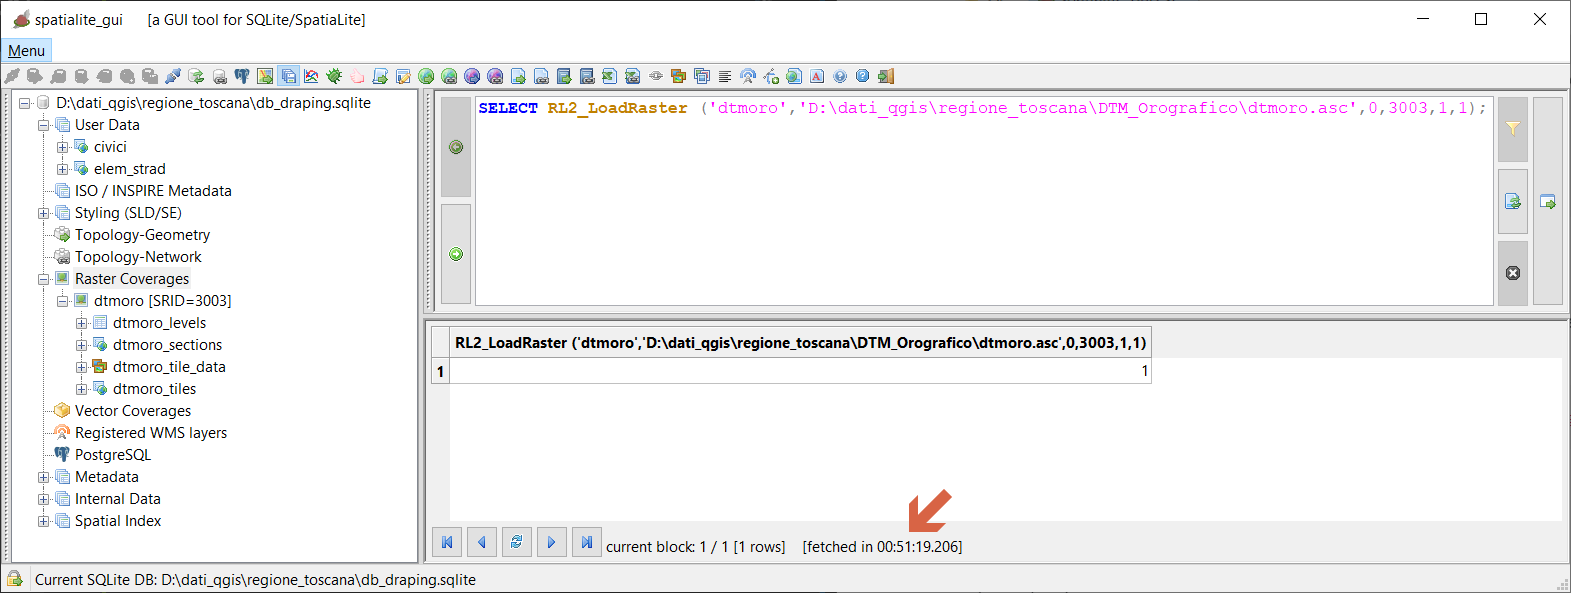
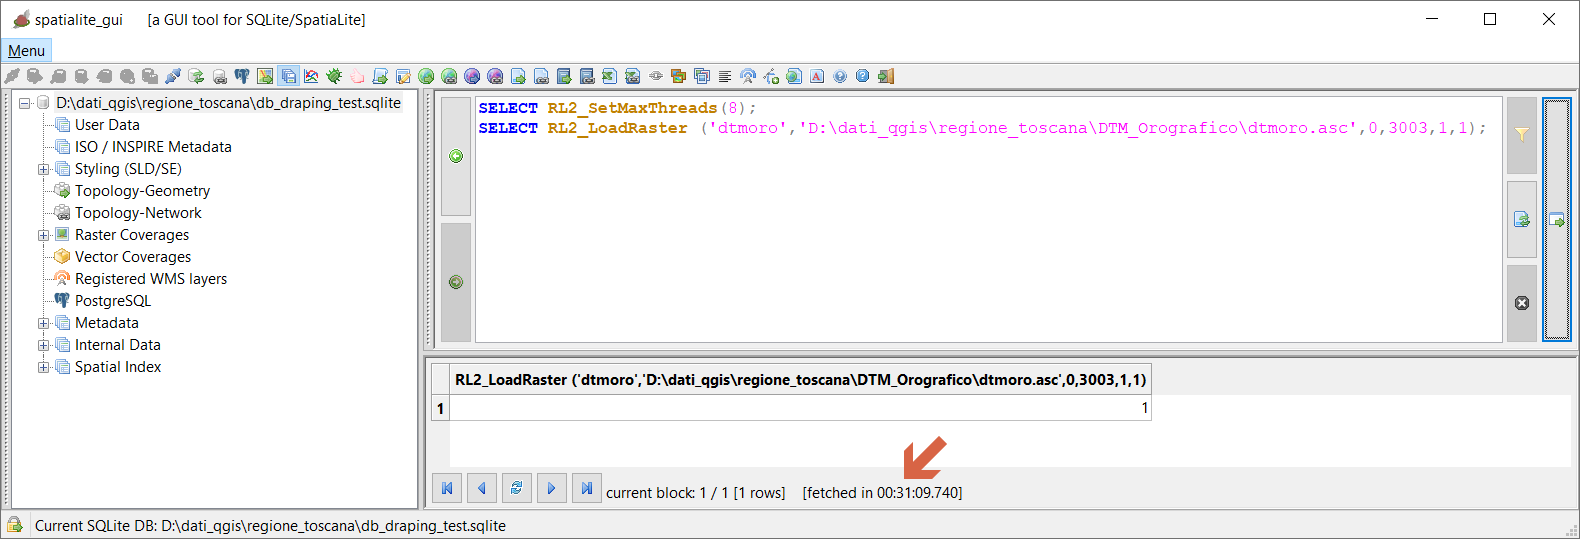
update cores

Changed region(s): [[0.0, 0.0, 1.0, 1.0]]

diff --git a/README.md b/README.md
@@ -172,23 +172,36 @@ Infine, caricaremo DTM **dtmoro.asc** nella copertura raster creata nel passaggi
 Come mostrato nella figura sotto, useremo la procedura guidata della GUI appropriata per svolgere questa attività, ma se lo desideri, alla fine potresti adottare un approccio SQL puro eseguendo la seguente dichiarazione:
 
 ```sql
+SELECT RL2_SetMaxThreads(8); -- per usare fino ad un massimo di 8 threads in parallelo durante la compressione
 SELECT RL2_LoadRaster ('dtmoro','D:\dati_qgis\regione_toscana\DTM_Orografico\dtmoro.asc',0,3003,1,1);
 ```
+
+**NB.:** 
+
+per autorizzare **RL2** ad usare fino ad un massimo di **8 threads in parallelo** durante la compressione, e quindi comprimerà' **8 tiles alla volta**, con ovvio beneficio sui tempi totali di importazione. ;-)
+In generale non e' necessario chiedere 8 threads, va bene qualsiasi valore, ma di norma le moderne CPU hanno proprio 8 cores tra fisici e virtuali. La regola da usare è: se hai 8 cores la velocita' piu' alta si ottiene attivando tra i 12 ed i 16 threads; insomma, il doppio dei cores o poco meno.
+
+<p align="center"> <a href="" target="_blank"><img src="./img/cores.png" width="400" title="Il mio PC e le cores"></a>
+</p>
+
 **Avviso importante per gli utenti Windows**
 
 L'importazione di una griglia ASCII richiede necessariamente l'apertura di un file temporaneo di supporto. 
 Sfortunatamente tutte le versioni recenti di Windows pensano che i file temporanei siano oggetti pericolosi che generano un serio allarme di sicurezza che causa una condizione di errore irreversibile. 
 
-C'è solo un modo per caricare in modo efficace una griglia ASCII su Windows: l'applicazione (spatialite) deve necessariamente essere eseguita con i privilegi di amministratore.
+C'è solo un modo per caricare in modo efficace una griglia ASCII su Windows: l'applicazione (spatialite) deve necessariamente essere **eseguita con i privilegi di amministratore**.
 
 <p align="center"> <a href="" target="_blank"><img src="./img/img_032.png" width="500" title="Esegui come Amministratore"></a>
 </p>
 
-![img](./img/img_0320.png)
+<p align="center"> <a href="" target="_blank"><img src="./img/img_0320.png" width="700" title="Importa DTM da GUI"></a>
+</p>
 
-tempo di esecuzione per importare il DTM circa **52** minuti
+tempo di esecuzione per importare il DTM circa **31** minuti
 
-![img](./img/img_0321.png)
+
+<p align="center"> <a href="" target="_blank"><img src="./img/img_0321.png" width="700" title="Importa DTM con SQL puro"></a>
+</p>
 
 **quadro sinottico**
 
